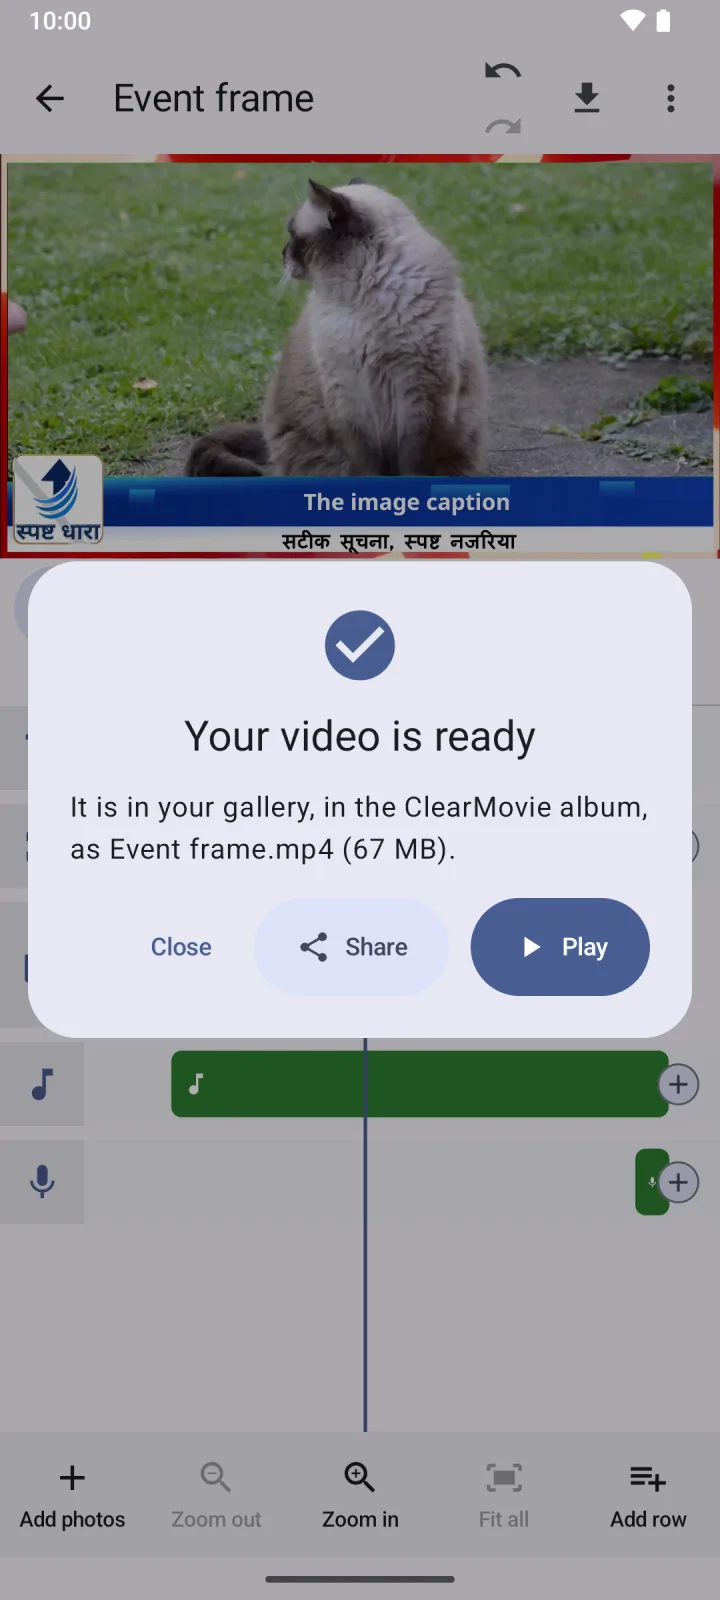
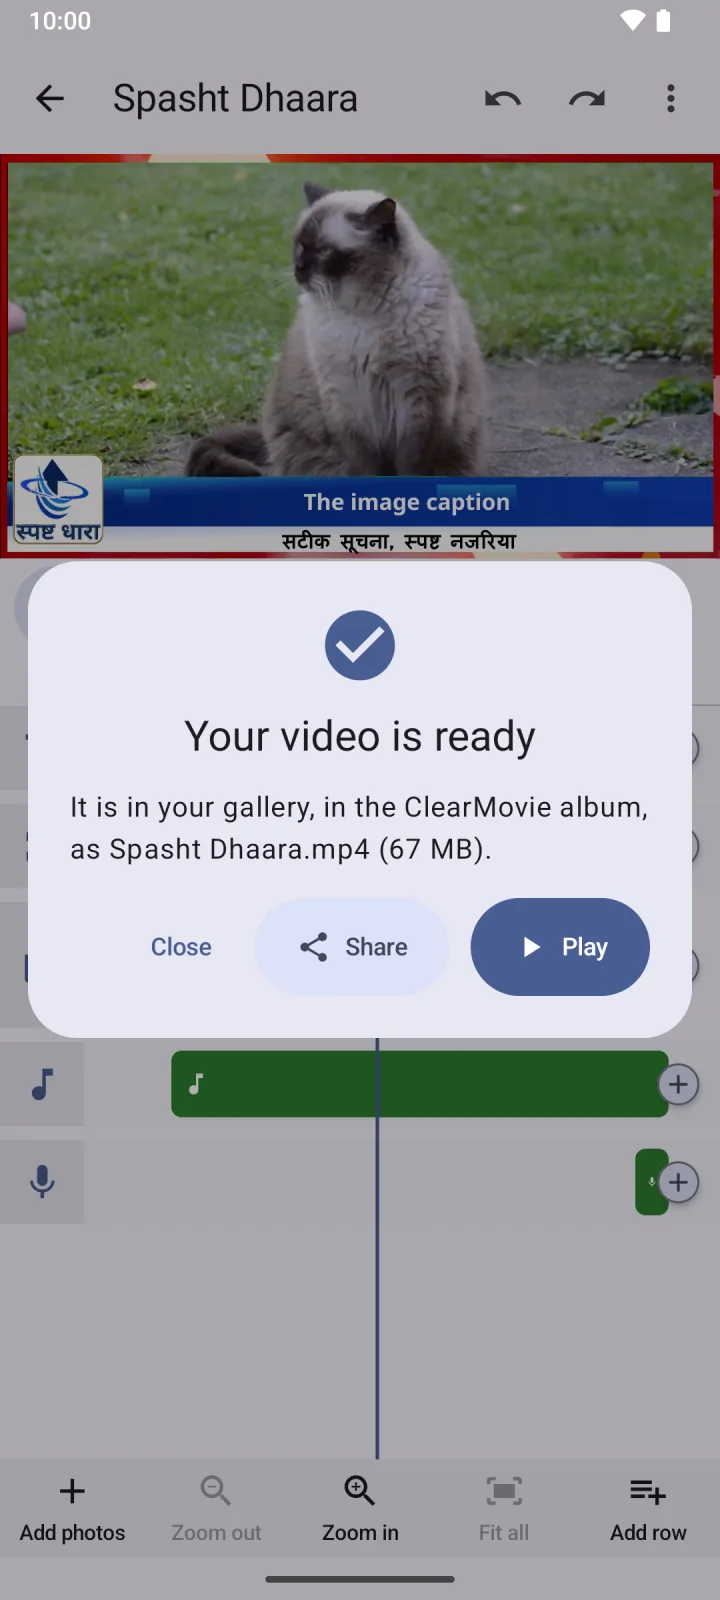
docs(screenshots): Retake the editor and preset shots
Retake 19 README and website screenshots with the same demo clips,
emulator profile and names as the last refresh: 18 on a debug build of
c84ed8a, and Settings on 6d36689 so it shows version 0.0.4 (the release
changed no app code). The editor now has Export next to Play instead of
a download button at the top, each row has a "+" at its right end, and
the demo preset is named Spasht Dhaara. Four shots (frame setup,
picture area, new preset, edit preset) came out byte-identical and are
unchanged.

Update the README and site text to match: Spasht Dhaara instead of
Event frame, Export in the play bar, and where the "+" buttons sit.
Download links, release notes and version lines are unchanged.

diff --git a/site/index.html b/site/index.html
@@ -177,7 +177,7 @@ footer a{color:var(--muted)}
     </div>
     <div class="phone-col">
       <div class="phone">
-        <div class="screen"><img src="screenshots/editor.webp" width="720" height="1600" alt="The ClearMovie editor: a video inside the event frame with the caption The image caption in white on its blue strip, and the timeline below with text, frame, photos and videos, music and voice rows"></div>
+        <div class="screen"><img src="screenshots/editor.webp" width="720" height="1600" alt="The ClearMovie editor: a video inside the Spasht Dhaara frame with the caption The image caption in white on its blue strip, and the timeline below with text, frame, photos and videos, music and voice rows"></div>
       </div>
       <span class="label">The editor</span>
     </div>
@@ -203,12 +203,12 @@ footer a{color:var(--muted)}
 <section id="screenshots" class="alt">
   <div class="wrap">
     <h2>See it in action</h2>
-    <p class="sub">Real ClearMovie screens, taken while making a short video from three clips with a preset called Event frame and its caption.</p>
+    <p class="sub">Real ClearMovie screens, taken while making a short video from three clips with a preset called Spasht Dhaara and its caption.</p>
     <div class="shots">
-      <figure><img src="screenshots/home.webp" width="720" height="1600" loading="lazy" alt="The home screen: the Event frame preset with an Edit button, Start without a preset, New preset, and the video under My videos"><figcaption>Pick a preset<small>or start without one</small></figcaption></figure>
+      <figure><img src="screenshots/home.webp" width="720" height="1600" loading="lazy" alt="The home screen: the Spasht Dhaara preset with an Edit button, Start without a preset, New preset, and the video under My videos"><figcaption>Pick a preset<small>or start without one</small></figcaption></figure>
       <figure><img src="screenshots/preset-review.webp" width="720" height="1600" loading="lazy" alt="What this preset adds: the intro and frame cards (the ending is further down), each with Play, Replace and Skip for this video, and a Next button"><figcaption>Check the preset<small>replace or skip any part</small></figcaption></figure>
       <figure><img src="screenshots/media-pick.webp" width="720" height="1600" loading="lazy" alt="The Android photo picker with three videos selected and an Add (3) button"><figcaption>Add photos and videos<small>with Android's own picker</small></figcaption></figure>
-      <figure><img src="screenshots/editor.webp" width="720" height="1600" loading="lazy" alt="The editor: back, the video's title, undo and redo, a download button to save the video and More options at the top; the caption on the frame's blue strip in the preview; and a timeline with text, frame, photos and videos, music and voice rows"><figcaption>Arrange the timeline<small>every row in view</small></figcaption></figure>
+      <figure><img src="screenshots/editor.webp" width="720" height="1600" loading="lazy" alt="The editor: back, the video's title, undo and redo and More options at the top; the caption on the frame's blue strip in the preview; Play and Export under it; and a timeline with text, frame, photos and videos, music and voice rows, each with a + at its right end"><figcaption>Arrange the timeline<small>every row in view</small></figcaption></figure>
       <figure><img src="screenshots/caption.webp" width="720" height="1600" loading="lazy" alt="The caption editor on the Font tab: Plain, Bold, Classic and Classic bold, each showing English and Hindi letters, with handles on the caption's box in the preview"><figcaption>Add a caption<small>Hindi and English fonts</small></figcaption></figure>
       <figure><img src="screenshots/transitions.webp" width="720" height="1600" loading="lazy" alt="The transition picker with a small preview of each fade and wipe, with Wipe Left chosen"><figcaption>Choose a transition<small>each with a preview</small></figcaption></figure>
       <figure><img src="screenshots/export.webp" width="720" height="1600" loading="lazy" alt="Save your video: Best, Good (suggested) or Small, each with its size"><figcaption>Choose a size<small>Best, Good or Small</small></figcaption></figure>
@@ -219,7 +219,7 @@ footer a{color:var(--muted)}
       <figure><img src="screenshots/preset-edit.webp" width="720" height="1600" loading="lazy" alt="Edit preset, scrolled down: a preview of its caption on the frame, its intro, frame and ending files with Change files, Save, and a delete button at the top"><figcaption>Edit a preset<small>from Home</small></figcaption></figure>
       <figure><img src="screenshots/preset-caption-style.webp" width="720" height="1600" loading="lazy" alt="Change caption style on the Animation tab: how a new caption comes in, None, Fade in, Zoom in, Pop, Bounce or Slide in, with Fade in chosen"><figcaption>Set its caption style<small>words, place, font, colour, animation</small></figcaption></figure>
       <figure><img src="screenshots/editor-caption.webp" width="720" height="1600" loading="lazy" alt="The caption selected in the editor: white on the frame's blue strip with handles on its box, and Edit text, Animation, Earlier, Later, Other row and Delete below"><figcaption>The caption, selected<small>drag a handle to resize it</small></figcaption></figure>
-      <figure><img src="screenshots/item-handles.webp" width="720" height="1600" loading="lazy" alt="A video selected on the timeline with a handle at each end, and its toolbar of Trim, Add caption, Transition, Animation and Volume"><figcaption>Trim on the timeline<small>drag either end of an item</small></figcaption></figure>
+      <figure><img src="screenshots/item-handles.webp" width="720" height="1600" loading="lazy" alt="A video selected on the timeline with a handle at each end and a + before and after it, and its toolbar of Trim, Add caption, Transition, Animation and Volume"><figcaption>Trim on the timeline<small>drag either end of an item</small></figcaption></figure>
       <figure><img src="screenshots/talk-level.webp" width="720" height="1600" loading="lazy" alt="Lower for talk: a switch to lower the music when people talk, and a slider for the music level, set to 10%"><figcaption>Lower for talk<small>music steps aside for voices</small></figcaption></figure>
       <figure><img src="screenshots/record-voice.webp" width="720" height="1600" loading="lazy" alt="Add to a voice row: Music or sound from your files, or Record voice, to speak over the video as it plays"><figcaption>Record voice<small>speak while the video plays</small></figcaption></figure>
       <figure><img src="screenshots/shape-first.webp" width="720" height="1600" loading="lazy" alt="What shape should your video be? Landscape, Portrait or Square, which can be changed later from More options"><figcaption>Choose a shape<small>landscape, portrait or square</small></figcaption></figure>
@@ -258,7 +258,7 @@ footer a{color:var(--muted)}
     <div class="steps">
       <div class="step"><h3>Pick a preset</h3><p>Choose your preset, or start without one. Check the intro, frame and ending, then tap Next.</p></div>
       <div class="step"><h3>Add photos &amp; videos</h3><p>Pick them in the app, or share them straight from the gallery. Drag to reorder, tap to trim or add a caption.</p></div>
-      <div class="step"><h3>Export &amp; share</h3><p>Tap the download button at the top, choose a size, and the finished video is saved to your gallery, ready to send.</p></div>
+      <div class="step"><h3>Export &amp; share</h3><p>Tap Export in the play bar under the preview, choose a size, and the finished video is saved to your gallery, ready to send.</p></div>
     </div>
   </div>
 </section>

diff --git a/README.md b/README.md
@@ -49,11 +49,11 @@ ClearMovie needs Android 10 or newer.
 ## Screenshots
 
 ClearMovie from `main` on an Android 16 emulator, making a short video from three
-clips with a preset called Event frame and its caption.
+clips with a preset called Spasht Dhaara and its caption.
 
 | Pick a preset | Check the preset | Add photos and videos | Arrange the timeline |
 | :---: | :---: | :---: | :---: |
-| ![Home screen: the Event frame preset with an Edit button, Start without a preset, New preset, and the video under My videos](site/screenshots/home.webp) | ![What this preset adds: the intro and frame (the ending is further down), each with Play, Replace and Skip](site/screenshots/preset-review.webp) | ![The Android photo picker with three videos selected](site/screenshots/media-pick.webp) | ![The editor: back, title, undo and redo, the download button and More options at the top, the caption on the frame's blue strip, and every row of the timeline](site/screenshots/editor.webp) |
+| ![Home screen: the Spasht Dhaara preset with an Edit button, Start without a preset, New preset, and the video under My videos](site/screenshots/home.webp) | ![What this preset adds: the intro and frame (the ending is further down), each with Play, Replace and Skip](site/screenshots/preset-review.webp) | ![The Android photo picker with three videos selected](site/screenshots/media-pick.webp) | ![The editor: back, title, undo and redo and More options at the top, the caption on the frame's blue strip, Play and Export under the preview, and every row of the timeline with a + at its right end](site/screenshots/editor.webp) |
 
 | Add a caption | Choose a transition | Choose a size | Share it |
 | :---: | :---: | :---: | :---: |
@@ -65,7 +65,7 @@ clips with a preset called Event frame and its caption.
 
 | Set its caption style | The caption, selected | Trim on the timeline | Lower for talk |
 | :---: | :---: | :---: | :---: |
-| ![Change caption style, Animation tab: None, Fade in, Zoom in, Pop, Bounce or Slide in, with Fade in chosen](site/screenshots/preset-caption-style.webp) | ![The caption selected in the editor, with handles on its box and Edit text, Animation, Earlier, Later, Other row and Delete below](site/screenshots/editor-caption.webp) | ![A video selected on the timeline with a handle at each end to trim it](site/screenshots/item-handles.webp) | ![Lower for talk: lower the music when people talk, to 10%](site/screenshots/talk-level.webp) |
+| ![Change caption style, Animation tab: None, Fade in, Zoom in, Pop, Bounce or Slide in, with Fade in chosen](site/screenshots/preset-caption-style.webp) | ![The caption selected in the editor, with handles on its box and Edit text, Animation, Earlier, Later, Other row and Delete below](site/screenshots/editor-caption.webp) | ![A video selected on the timeline with a handle at each end to trim it and a + before and after it](site/screenshots/item-handles.webp) | ![Lower for talk: lower the music when people talk, to 10%](site/screenshots/talk-level.webp) |
 
 | Record voice | Choose a shape | More options | Settings |
 | :---: | :---: | :---: | :---: |
@@ -89,7 +89,7 @@ What ClearMovie on `main` does:
   video or a closing voice clip. You can replace any part for a single video, or skip it.
 - **Your own presets** - make a new preset from Home, and edit or delete any preset there.
   A new install starts with none: Home shows your presets, then Start without a preset and
-  New preset. An install that had the Event frame keeps it as a preset like any other. A new
+  New preset. An install that had the preset older versions came with keeps it like any other. A new
   preset can use your files where they are, or keep a copy of them. Each
   preset keeps a caption style (words, place, size, font, colour, outline, band and the
   animation it comes in with) that new captions start from, with a live preview.
@@ -103,8 +103,9 @@ What ClearMovie on `main` does:
 - **A timeline that stays simple** - photos and videos on one row you reorder by dragging,
   plus as many text, music, voice, picture-in-picture and frame rows as you want. Each row has an
   icon, rows can be rearranged, and you choose which one shows on top. Pinch to zoom, or
-  use the zoom buttons. A "+" before and after each item adds something right there, and a
-  selected item has a handle at each end to trim it.
+  use the zoom buttons. Each row, the frame row too, has a "+" at its right end to add to it.
+  A selected photo or video has a "+" before and after it to add something right there, and
+  a selected item has a handle at each end to trim it.
 - **Big, labelled buttons** - tap any item for a toolbar of icons with names under them
   (trim, split, speed, loop, photo duration, volume, text, transition, animation, replace,
   delete). It scrolls sideways when there are more.
@@ -126,7 +127,7 @@ What ClearMovie on `main` does:
   on a tablet, foldable or in split-screen gets the same layout.
 - **Autosave** - work is saved as you go and recovered after a crash. Your videos are
   listed under "My videos"; tap a video's title in the editor to give it a name.
-- **Hardware-accelerated export** - tap the download button at the top, then choose Best
+- **Hardware-accelerated export** - tap Export in the play bar under the preview, then choose Best
   (1080p), Good (720p) or Small (480p). The video is saved to your gallery, ready to play
   or share.
 
@@ -148,7 +149,7 @@ What has shipped, and what is still to come:
 **Editing**
 - [x] Drag-to-reorder main row, with Move left and Move right buttons as well
 - [x] Several rows of each kind (text, music, picture in picture, frame), with type icons, rearranging, and "Show on top" / "Send backward"
-- [x] "+" before and after each item to insert photos, videos, text cards or music
+- [x] "+" at the end of each row, and before and after a selected photo or video, to insert photos, videos, text cards or music
 - [x] Pinch to zoom the timeline, plus zoom buttons and Fit all
 - [x] Transitions between items and animations on items
 - [x] Trim, split, join, speed (0.25x-4x), loop
